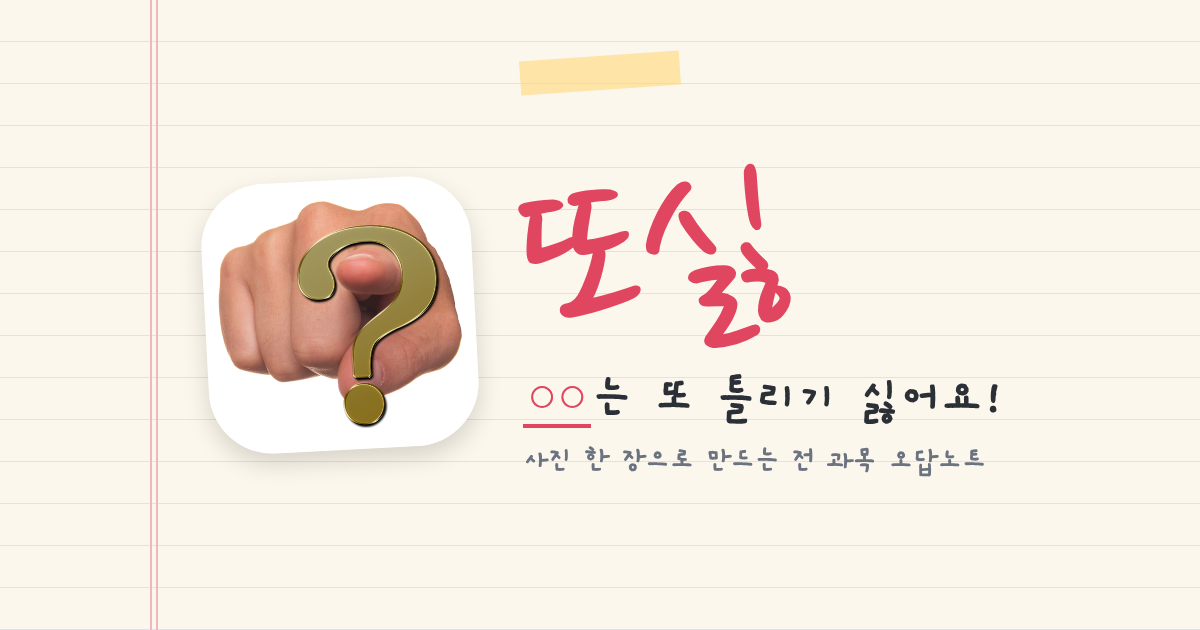
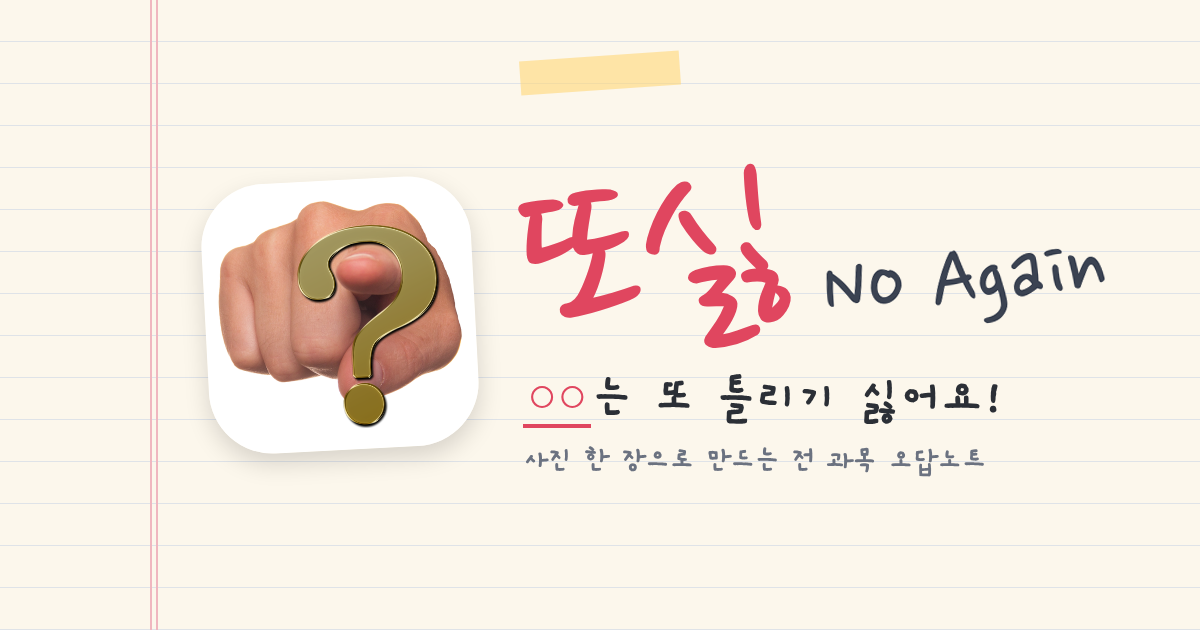
또싫 옆에 영어 이름 No Again (머리글·로그인·카톡 썸네일·앱 이름), 판 1.9.1
Claude-Session: https://claude.ai/code/session_012oAFi2rrfW5TJ6M2REg3UU

Changed region(s): [[0.6783, 0.3921, 0.925, 0.5127]]

diff --git a/index.html b/index.html
@@ -2,7 +2,7 @@
 <html lang="ko">
 <head>
 <meta charset="utf-8">
-<meta name="app-version" content="1.9.0">
+<meta name="app-version" content="1.9.1">
 <meta name="viewport" content="width=device-width, initial-scale=1, viewport-fit=cover">
 <meta name="theme-color" content="#fcf7ec">
 <title>또싫</title>
@@ -14,9 +14,9 @@
 <meta name="description" content="사진 한 장으로 만드는 전 과목 오답노트">
 <meta property="og:type" content="website">
 <meta property="og:url" content="https://musicalpe.github.io/NoAgain/">
-<meta property="og:title" content="또싫 · 또 틀리기 싫어요">
+<meta property="og:title" content="또싫 No Again · 또 틀리기 싫어요">
 <meta property="og:description" content="사진 한 장으로 만드는 전 과목 오답노트">
-<meta property="og:image" content="https://musicalpe.github.io/NoAgain/og.png">
+<meta property="og:image" content="https://musicalpe.github.io/NoAgain/og.png?v=2">
 <meta property="og:image:width" content="1200">
 <meta property="og:image:height" content="630">
 <meta name="twitter:card" content="summary_large_image">
@@ -31,7 +31,7 @@
 <body>
 
 <header class="topbar">
-  <div class="brand"><span class="brand-name" id="brandName">또싫</span><span class="brand-sub" id="brandSub">또 틀리기 싫어요</span></div>
+  <div class="brand"><span class="brand-name" id="brandName">또싫</span><span class="brand-en">No Again</span><span class="brand-sub" id="brandSub">또 틀리기 싫어요</span></div>
   <div id="userBox" class="user-box hidden">
     <span id="userName"></span>
     <button class="btn-text btn-install hidden">앱 설치</button>
@@ -53,6 +53,7 @@
   <section id="view-login" class="view hidden">
     <div class="login-wrap">
       <div class="login-title" id="loginTitle">또싫</div>
+      <div class="login-en">No Again</div>
       <div class="login-sub" id="loginSub">또 틀리기 싫어요</div>
       <div class="login-note">
         <div class="note-line red">틀린 문제는</div>

diff --git a/style.css b/style.css
@@ -27,7 +27,8 @@ button,input,select,textarea{font:inherit;color:inherit}
 .topbar{position:sticky;top:0;z-index:10;display:flex;align-items:center;justify-content:space-between;
   padding:8px 16px 6px 56px;background:rgba(252,247,236,.96);border-bottom:2px solid var(--margin)}
 .brand{display:flex;align-items:baseline;gap:8px;min-width:0}
-.brand-name{font-family:var(--pen);font-size:34px;line-height:1;color:var(--red)}
+.brand-name{font-family:var(--pen);font-size:34px;line-height:1;color:var(--red);white-space:nowrap;flex-shrink:0}
+.brand-en{flex-shrink:0;font-family:var(--pen);font-size:17px;line-height:1;color:var(--ink,#3a3f4a);opacity:.75;white-space:nowrap;letter-spacing:.5px}
 .brand-sub{font-size:15px;color:var(--pencil);white-space:nowrap;overflow:hidden;text-overflow:ellipsis}
 .user-box{display:flex;align-items:center;gap:6px;font-size:15px;color:var(--pencil);flex:0 0 auto}
 @media(max-width:420px){#userName{display:none}}
@@ -63,6 +64,7 @@ main{max-width:760px;margin:0 auto;padding:18px 14px 104px 56px}
 /* 로그인 */
 .login-wrap{max-width:380px;margin:20px auto;text-align:center}
 .login-title{font-family:var(--pen);font-size:76px;line-height:1;color:var(--red);transform:rotate(-3deg)}
+.login-en{font-family:var(--pen);font-size:30px;line-height:1;color:var(--ink,#3a3f4a);opacity:.8;margin-top:2px;letter-spacing:1px}
 .login-sub{font-size:22px;color:var(--pencil);margin:4px 0 18px}
 .login-note{text-align:left;padding:4px 6px 14px;margin-bottom:18px}
 .note-line{font-size:26px;font-weight:700;height:var(--line-h);line-height:var(--line-h)}

diff --git a/app.js b/app.js
@@ -1,6 +1,6 @@
 // 또싫 (오답노트) — 음악적체육인
 // 판 번호: 고칠 때마다 올리기 (sw.js 의 VERSION, index.html 의 app-version 과 같아야 함 → tests/check.mjs 가 확인)
-export const APP_VERSION = "1.9.0";
+export const APP_VERSION = "1.9.1";
 import { FIREBASE_CONFIG, RECAPTCHA_SITE_KEY, AI_MODELS, AI_MODELS_FAST, SUBJECTS, SIMILAR_COUNT, APP_NAME, APP_SUBTITLE, SUBJECT_COLORS } from "./config.js";
 import { initializeApp } from "https://www.gstatic.com/firebasejs/12.18.0/firebase-app.js";
 import { initializeAppCheck, ReCaptchaEnterpriseProvider, getToken as getAppCheckToken } from "https://www.gstatic.com/firebasejs/12.18.0/firebase-app-check.js";

diff --git a/sw.js b/sw.js
@@ -1,4 +1,4 @@
-const VERSION = "1.9.0"; // 판 번호 (app.js 의 APP_VERSION 과 같게)
+const VERSION = "1.9.1"; // 판 번호 (app.js 의 APP_VERSION 과 같게)
 // 또싫 서비스 워커 — 알림 띄우기·알림 누르면 앱 열기 (파일 저장은 하지 않음)
 self.addEventListener("install", () => self.skipWaiting());
 self.addEventListener("activate", (e) => e.waitUntil(self.clients.claim()));
